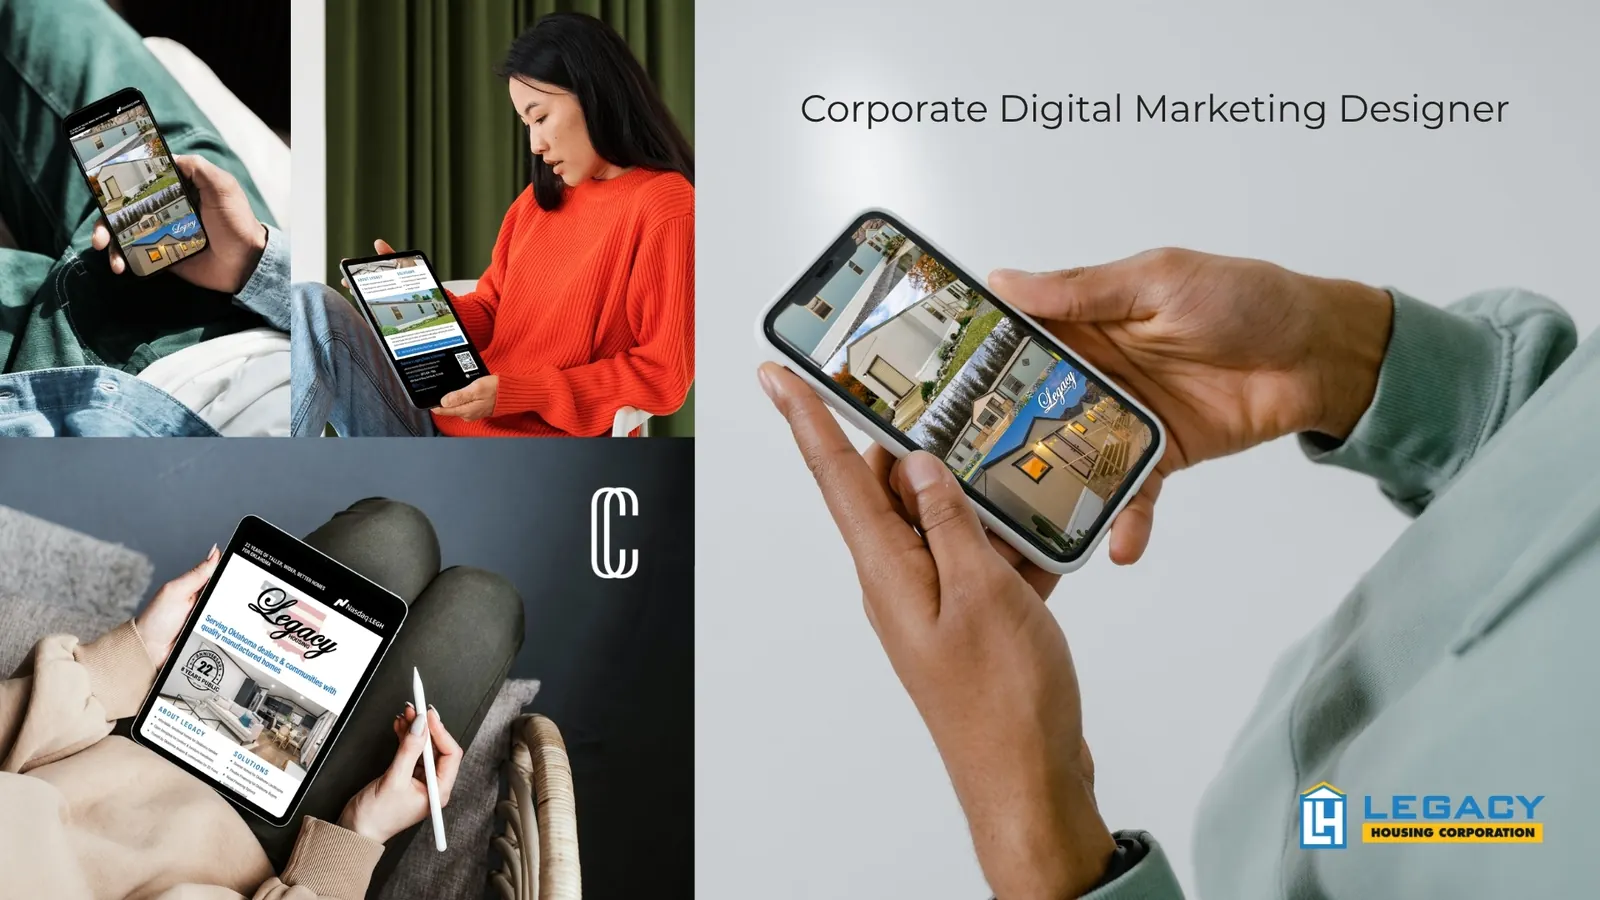
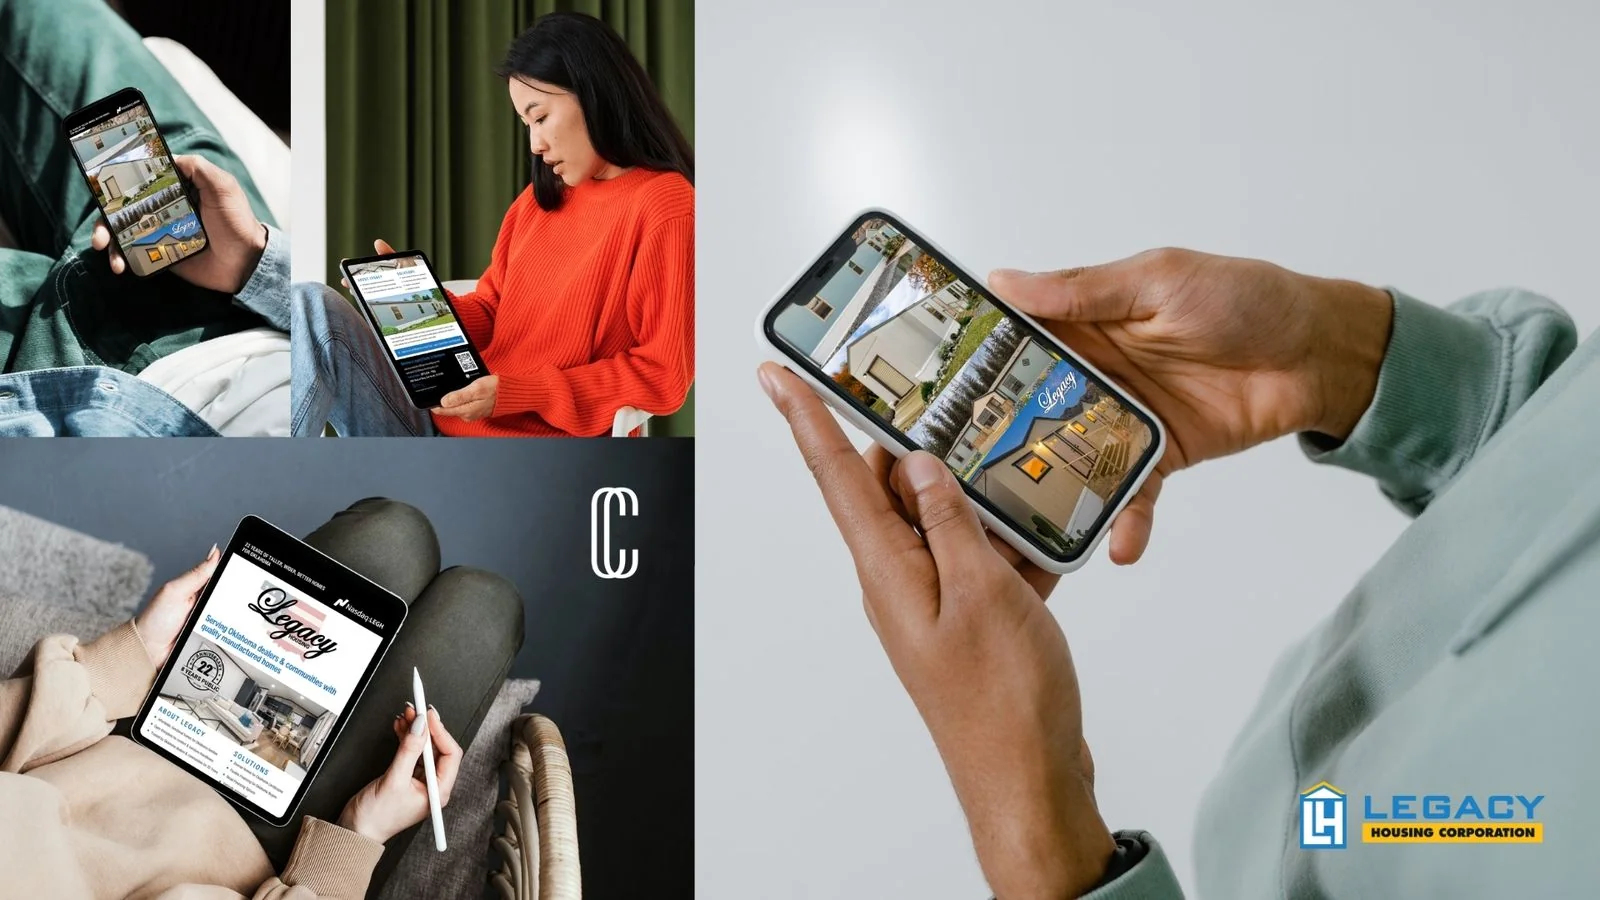
Add Google Analytics and this week's content updates (#45)
Installs the Google Analytics 4 tag (G-HBV36D48ME, a new account kept
separate from any employer account) at the top of every real page.

Content: the email signature is now described as in use company-wide;
the Blood in Blackwood card notes the author gave full creative
freedom; Lower Greenville joins the service area in schema, visible
copy and llms.txt; and the baked-in "Corporate Digital Marketing
Designer" caption is removed from the Legacy Housing collage.

Claude-Session: https://claude.ai/code/session_01ST9WbQAtkzkZPzuFDVsxMm

Changed region(s): [[0.5, 0.0933, 0.9375, 0.1556]]

diff --git a/index.html b/index.html
@@ -1,6 +1,9 @@
 <!DOCTYPE html>
 <html lang="en">
 <head>
+<!-- Google Analytics -->
+<script async src="https://www.googletagmanager.com/gtag/js?id=G-HBV36D48ME"></script>
+<script>window.dataLayer=window.dataLayer||[];function gtag(){dataLayer.push(arguments);}gtag('js',new Date());gtag('config','G-HBV36D48ME');</script>
 <meta charset="UTF-8">
 <meta name="viewport" content="width=device-width, initial-scale=1.0">
 <script>document.documentElement.className += ' js';</script>
@@ -216,6 +219,7 @@
 {"@type": "City", "name": "Bedford"},
 {"@type": "City", "name": "University Park"},
 {"@type": "City", "name": "Highland Park"},
+{"@type": "Place", "name": "Lower Greenville, Dallas"},
 {"@type": "City", "name": "San José", "containedInPlace": {"@type": "Country", "name": "Costa Rica"}}
 ],
 "knowsAbout": ["Creative Technology", "Vibe Coding", "Art Direction", "Brand Design", "Brand Identity", "Graphic Design", "Web Design", "Landing Page Design", "UX/UI Design", "Design Systems", "Figma", "Campaign Design", "Print and Catalog Design", "Visual Merchandising", "AI-Powered Design", "AI Video", "Claude", "Adobe Firefly", "Midjourney", "Higgsfield AI", "Adobe Creative Cloud", "HTML", "CSS", "WebGL", "Photography"],
@@ -367,7 +371,7 @@
 <p class="kicker reveal"><b>01</b> Case study</p>
 <h2 class="h2 reveal d-1">Legacy Housing <em class="serif">Corporation.</em></h2>
 <p class="lead reveal d-2" style="margin-top:1.4rem;">Marketing Digital Designer at a Nasdaq-listed manufactured housing company. As the design and web point of contact for sales, engineering, and leadership, I keep handoffs few and decisions fast.</p>
-<p class="lead reveal d-2" style="margin-top:1.2rem;">This role brings my graphic design, digital design and creative technology skills together: print and catalog work, web and digital tools, AI-assisted production, and a company-wide email signature designed to a professional corporate standard, all for one brand. <a href="#print" style="color:var(--blue);font-weight:700;text-decoration:none">See the published ad ↓</a></p>
+<p class="lead reveal d-2" style="margin-top:1.2rem;">This role brings my graphic design, digital design and creative technology skills together: print and catalog work, web and digital tools, AI-assisted production, and the email signature now used company-wide, built to a professional corporate standard, all for one brand. <a href="#print" style="color:var(--blue);font-weight:700;text-decoration:none">See the published ad ↓</a></p>
 <p class="print-credit reveal" style="margin:1.6rem 0 2rem">Created by Carolina Cravens as Marketing Digital Designer at Legacy Housing Corporation. All rights belong to Legacy Housing Corporation. Shown for portfolio purposes only; no endorsement implied.</p>
 </div>
 </div>
@@ -661,7 +665,7 @@
 <p class="kicker reveal">Let's talk</p>
 <h2 class="h2 reveal d-1">Let's build something <em class="serif">bold.</em></h2>
 <a class="mail reveal d-2" href="mailto:creativecravens@gmail.com">creativecravens@gmail.com <span aria-hidden="true">↗</span></a>
-<p class="lead reveal">I work with teams across the Dallas-Fort Worth metroplex (Dallas, Fort Worth, Plano, Frisco, Irving, Las Colinas, Arlington, Richardson, Bedford, University Park and Highland Park), remotely across the U.S., and in San José, Costa Rica. Tell me what you're working on and I'll walk you through the work most relevant to it.</p>
+<p class="lead reveal">I work with teams across the Dallas-Fort Worth metroplex (Dallas, Fort Worth, Plano, Frisco, Irving, Las Colinas, Arlington, Richardson, Bedford, University Park, Highland Park and Lower Greenville), remotely across the U.S., and in San José, Costa Rica. Tell me what you're working on and I'll walk you through the work most relevant to it.</p>
 <div class="contact-ctas reveal">
 <a href="https://linkedin.com/in/carolinacravens" target="_blank" rel="noopener" class="btn btn-primary magnetic">LinkedIn <span class="arr">↗</span></a>
 <a href="resume.html" class="btn btn-ghost magnetic">Resume <span class="arr">↗</span></a>

diff --git a/creative-technologist.html b/creative-technologist.html
@@ -1,6 +1,9 @@
 <!DOCTYPE html>
 <html lang="en">
 <head>
+<!-- Google Analytics -->
+<script async src="https://www.googletagmanager.com/gtag/js?id=G-HBV36D48ME"></script>
+<script>window.dataLayer=window.dataLayer||[];function gtag(){dataLayer.push(arguments);}gtag('js',new Date());gtag('config','G-HBV36D48ME');</script>
 <meta charset="UTF-8">
 <meta name="viewport" content="width=device-width, initial-scale=1.0">
 <script>document.documentElement.className += ' js';</script>
@@ -67,7 +70,7 @@
 "telephone": "+1-208-402-8409",
 "email": "creativecravens@gmail.com",
 "address": { "@type": "PostalAddress", "addressLocality": "Dallas-Fort Worth", "addressRegion": "TX", "addressCountry": "US" },
-"areaServed": [{ "@type": "Place", "name": "Dallas-Fort Worth, TX" }, { "@type": "City", "name": "Dallas" }, { "@type": "City", "name": "Bedford" }, { "@type": "City", "name": "University Park" }, { "@type": "City", "name": "Highland Park" }, { "@type": "Country", "name": "United States" }, { "@type": "Country", "name": "Costa Rica" }],
+"areaServed": [{ "@type": "Place", "name": "Dallas-Fort Worth, TX" }, { "@type": "City", "name": "Dallas" }, { "@type": "City", "name": "Bedford" }, { "@type": "City", "name": "University Park" }, { "@type": "City", "name": "Highland Park" }, { "@type": "Place", "name": "Lower Greenville, Dallas" }, { "@type": "Country", "name": "United States" }, { "@type": "Country", "name": "Costa Rica" }],
 "availableLanguage": ["English", "Spanish"],
 "founder": { "@id": "https://creativecravens.com/#carolina" }
 }
@@ -590,7 +593,7 @@
 <div class="body">
 <span class="k">Creative technology &middot; Author marketing</span>
 <h3>Blood in Blackwood</h3>
-<p>Creative technology and digital marketing for author Jacob Hill: a personalized launch site for his slasher horror novel, built with AI around exactly what he needed and designed to move readers straight to Amazon. The whole page is dressed as a camera viewfinder, with REC timecode, ISO and focus marks running through it, to match the film set the book is set on. Kindle and paperback buy paths, an FAQ, and a review prompt.</p>
+<p>Creative technology and digital marketing for author Jacob Hill, who gave me full creative freedom: a personalized launch site for his slasher horror novel, built with AI around exactly what he needed and designed to move readers straight to Amazon. The whole page is dressed as a camera viewfinder, with REC timecode, ISO and focus marks running through it, to match the film set the book is set on. Kindle and paperback buy paths, an FAQ, and a review prompt.</p>
 <a class="go-link" href="https://creativecravens.github.io/For-Jacob/" target="_blank" rel="noopener">Visit the launch site &#8599;</a>
 </div>
 </article>
@@ -864,7 +867,7 @@
 </div>
 <div class="scope-grid reveal">
 <div class="scope-card"><span class="n">01 / Interactive</span><h3>A sales sheet built in HTML</h3><p>An interactive digital sales sheet, the first of its kind at the company, so the team presents from a live page instead of a flat PDF.</p></div>
-<div class="scope-card"><span class="n">02 / Systems</span><h3>Company-wide email signatures</h3><p>Led the HTML signature project end to end, with live links, and delivered the options to HR and IT.</p></div>
+<div class="scope-card"><span class="n">02 / Systems</span><h3>Company-wide email signatures</h3><p>Led the HTML signature project end to end, with live links, built to a professional corporate standard and now used across the company.</p></div>
 <div class="scope-card"><span class="n">03 / Design system</span><h3>A 65-icon vector library</h3><p>Drawn from scratch to give a national product catalog one visual language across print and digital.</p></div>
 <div class="scope-card"><span class="n">04 / Process</span><h3>A 39-question approval gate</h3><p>So sales and engineering confirm every product claim in a single pass, with accuracy verified before anything goes to print.</p></div>
 </div>

diff --git a/web-design-services.html b/web-design-services.html
@@ -1,6 +1,9 @@
 <!DOCTYPE html>
 <html lang="en">
 <head>
+<!-- Google Analytics -->
+<script async src="https://www.googletagmanager.com/gtag/js?id=G-HBV36D48ME"></script>
+<script>window.dataLayer=window.dataLayer||[];function gtag(){dataLayer.push(arguments);}gtag('js',new Date());gtag('config','G-HBV36D48ME');</script>
 <meta charset="UTF-8">
 <meta name="viewport" content="width=device-width, initial-scale=1.0">
 <script>document.documentElement.className += ' js';</script>
@@ -42,7 +45,7 @@
 "email": "creativecravens@gmail.com",
 "priceRange": "$1,000 - $9,000",
 "address": { "@type": "PostalAddress", "addressLocality": "Dallas-Fort Worth", "addressRegion": "TX", "addressCountry": "US" },
-"areaServed": [{ "@type": "Place", "name": "Dallas-Fort Worth, TX" }, { "@type": "City", "name": "Dallas" }, { "@type": "City", "name": "Bedford" }, { "@type": "City", "name": "University Park" }, { "@type": "City", "name": "Highland Park" }, { "@type": "Country", "name": "United States" }, { "@type": "Country", "name": "Costa Rica" }],
+"areaServed": [{ "@type": "Place", "name": "Dallas-Fort Worth, TX" }, { "@type": "City", "name": "Dallas" }, { "@type": "City", "name": "Bedford" }, { "@type": "City", "name": "University Park" }, { "@type": "City", "name": "Highland Park" }, { "@type": "Place", "name": "Lower Greenville, Dallas" }, { "@type": "Country", "name": "United States" }, { "@type": "Country", "name": "Costa Rica" }],
 "availableLanguage": ["English", "Spanish"],
 "founder": { "@id": "https://creativecravens.com/#carolina" },
 "hasOfferCatalog": {

diff --git a/contact.html b/contact.html
@@ -1,6 +1,9 @@
 <!DOCTYPE html>
 <html lang="en">
 <head>
+<!-- Google Analytics -->
+<script async src="https://www.googletagmanager.com/gtag/js?id=G-HBV36D48ME"></script>
+<script>window.dataLayer=window.dataLayer||[];function gtag(){dataLayer.push(arguments);}gtag('js',new Date());gtag('config','G-HBV36D48ME');</script>
 <meta charset="UTF-8">
 <meta name="viewport" content="width=device-width, initial-scale=1.0">
 <script>document.documentElement.className += ' js';</script>
@@ -50,7 +53,8 @@
 {"@type": "City", "name": "Richardson"},
 {"@type": "City", "name": "Bedford"},
 {"@type": "City", "name": "University Park"},
-{"@type": "City", "name": "Highland Park"}
+{"@type": "City", "name": "Highland Park"},
+{"@type": "Place", "name": "Lower Greenville, Dallas"}
 ],
 "address": {"@type": "PostalAddress", "addressLocality": "Dallas", "addressRegion": "TX", "addressCountry": "US"}
 },
@@ -109,7 +113,7 @@
 <div class="ct-card">
 <span>Where I work</span>
 <b>Dallas-Fort Worth and remote</b>
-<p>Dallas, Fort Worth, Bedford, University Park, Highland Park, Plano, Frisco, Irving, Arlington and Richardson, plus remote clients across the U.S. and in San Jos&eacute;, Costa Rica.</p>
+<p>Dallas, Fort Worth, Bedford, University Park, Highland Park, Lower Greenville, Plano, Frisco, Irving, Arlington and Richardson, plus remote clients across the U.S. and in San Jos&eacute;, Costa Rica.</p>
 </div>
 <a class="ct-card" href="web-design-services.html">
 <span>Before you write</span>

diff --git a/es.html b/es.html
@@ -1,6 +1,9 @@
 <!DOCTYPE html>
 <html lang="es-CR">
 <head>
+<!-- Google Analytics -->
+<script async src="https://www.googletagmanager.com/gtag/js?id=G-HBV36D48ME"></script>
+<script>window.dataLayer=window.dataLayer||[];function gtag(){dataLayer.push(arguments);}gtag('js',new Date());gtag('config','G-HBV36D48ME');</script>
 <meta charset="UTF-8">
 <meta name="viewport" content="width=device-width, initial-scale=1.0">
 <script>document.documentElement.className += ' js';</script>

diff --git a/resume.html b/resume.html
@@ -1,6 +1,9 @@
 <!DOCTYPE html>
 <html lang="en">
 <head>
+<!-- Google Analytics -->
+<script async src="https://www.googletagmanager.com/gtag/js?id=G-HBV36D48ME"></script>
+<script>window.dataLayer=window.dataLayer||[];function gtag(){dataLayer.push(arguments);}gtag('js',new Date());gtag('config','G-HBV36D48ME');</script>
 <meta charset="UTF-8">
 <meta name="viewport" content="width=device-width, initial-scale=1.0">
 <title>Resume | Carolina Cravens, Creative Technologist</title>

diff --git a/art.html b/art.html
@@ -1,6 +1,9 @@
 <!DOCTYPE html>
 <html lang="en">
 <head>
+<!-- Google Analytics -->
+<script async src="https://www.googletagmanager.com/gtag/js?id=G-HBV36D48ME"></script>
+<script>window.dataLayer=window.dataLayer||[];function gtag(){dataLayer.push(arguments);}gtag('js',new Date());gtag('config','G-HBV36D48ME');</script>
 <meta charset="UTF-8">
 <meta name="viewport" content="width=device-width, initial-scale=1.0">
 <script>document.documentElement.className += ' js';</script>

diff --git a/pacific-northern.html b/pacific-northern.html
@@ -1,6 +1,9 @@
 <!DOCTYPE html>
 <html lang="en">
 <head>
+<!-- Google Analytics -->
+<script async src="https://www.googletagmanager.com/gtag/js?id=G-HBV36D48ME"></script>
+<script>window.dataLayer=window.dataLayer||[];function gtag(){dataLayer.push(arguments);}gtag('js',new Date());gtag('config','G-HBV36D48ME');</script>
 <meta charset="UTF-8">
 <meta name="viewport" content="width=device-width, initial-scale=1.0">
 <script>document.documentElement.className += ' js';</script>

diff --git a/pet-portraits.html b/pet-portraits.html
@@ -1,6 +1,9 @@
 <!DOCTYPE html>
 <html lang="en">
 <head>
+<!-- Google Analytics -->
+<script async src="https://www.googletagmanager.com/gtag/js?id=G-HBV36D48ME"></script>
+<script>window.dataLayer=window.dataLayer||[];function gtag(){dataLayer.push(arguments);}gtag('js',new Date());gtag('config','G-HBV36D48ME');</script>
 <meta charset="UTF-8">
 <meta name="viewport" content="width=device-width, initial-scale=1.0">
 <script>document.documentElement.className += ' js';</script>

diff --git a/thank-you.html b/thank-you.html
@@ -1,6 +1,9 @@
 <!DOCTYPE html>
 <html lang="en">
 <head>
+<!-- Google Analytics -->
+<script async src="https://www.googletagmanager.com/gtag/js?id=G-HBV36D48ME"></script>
+<script>window.dataLayer=window.dataLayer||[];function gtag(){dataLayer.push(arguments);}gtag('js',new Date());gtag('config','G-HBV36D48ME');</script>
 <meta charset="UTF-8">
 <meta name="viewport" content="width=device-width, initial-scale=1.0">
 <script>document.documentElement.className += ' js';</script>
